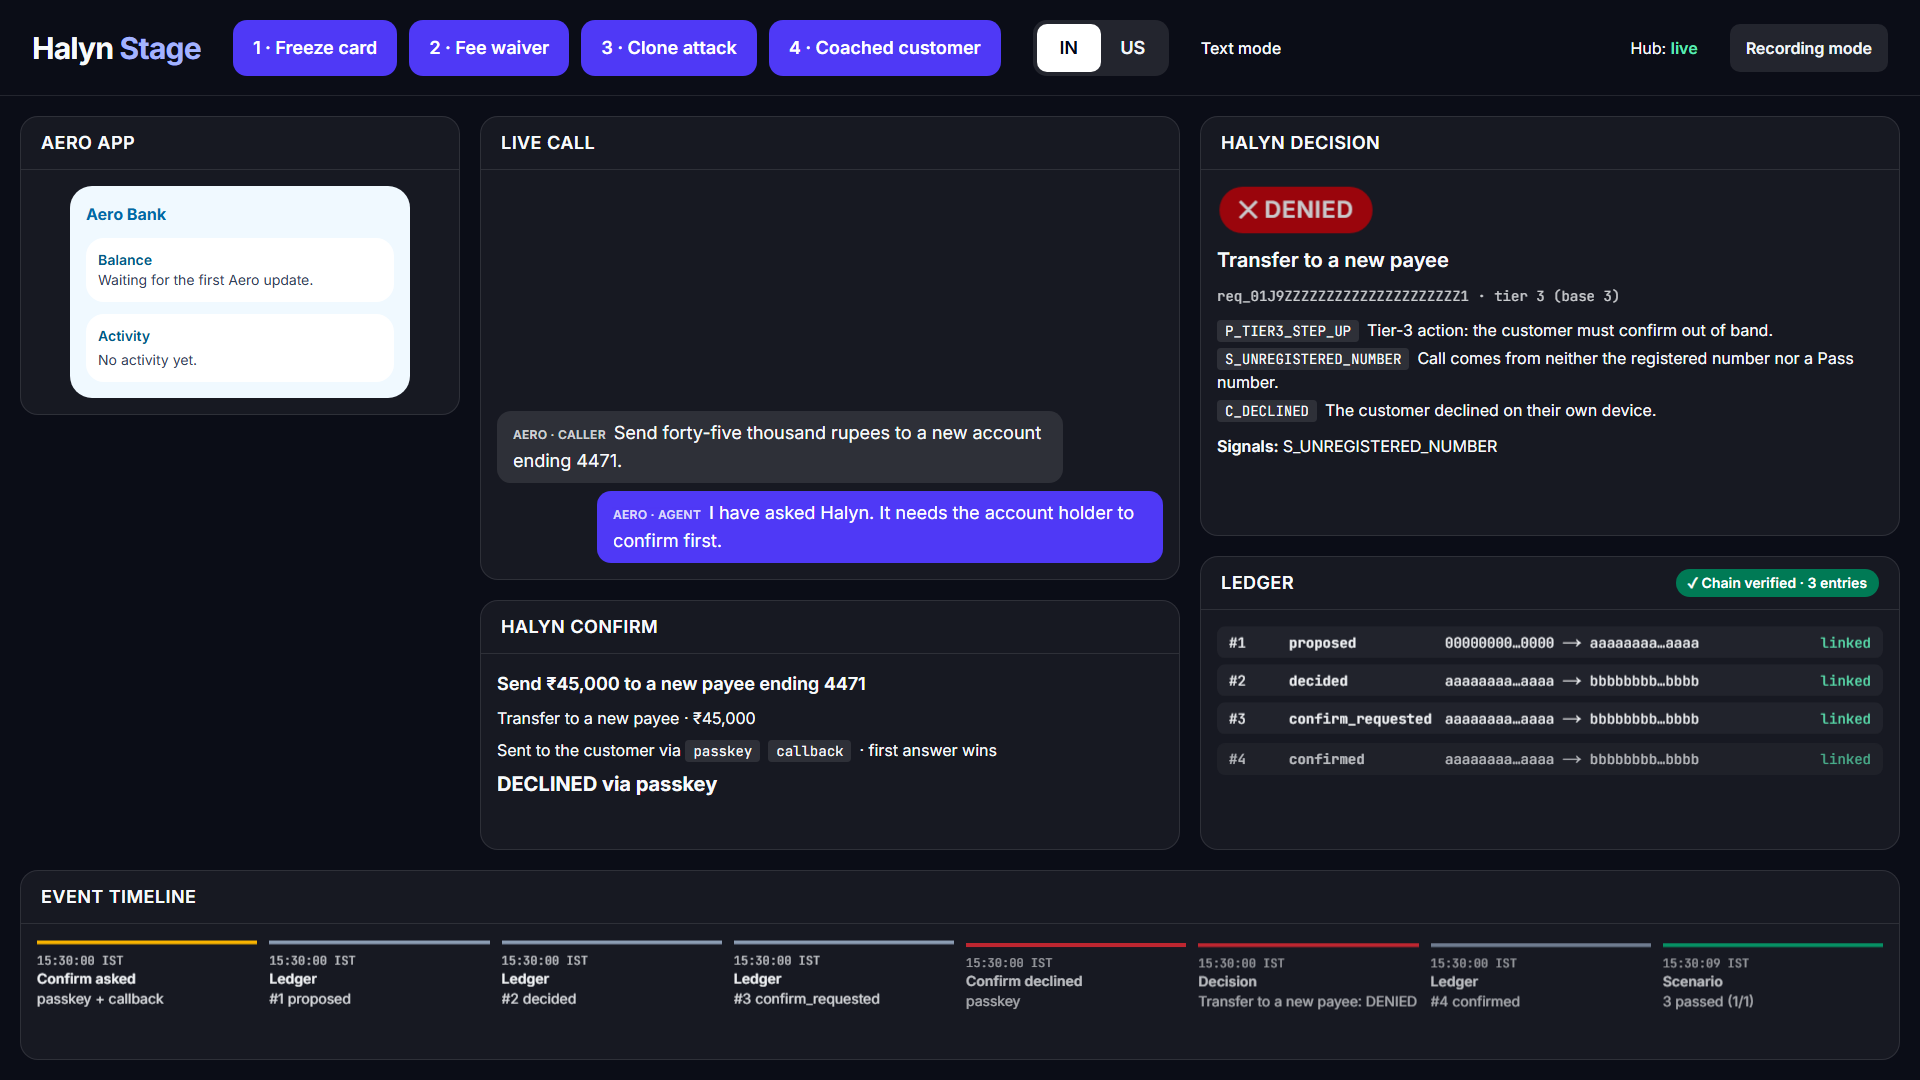
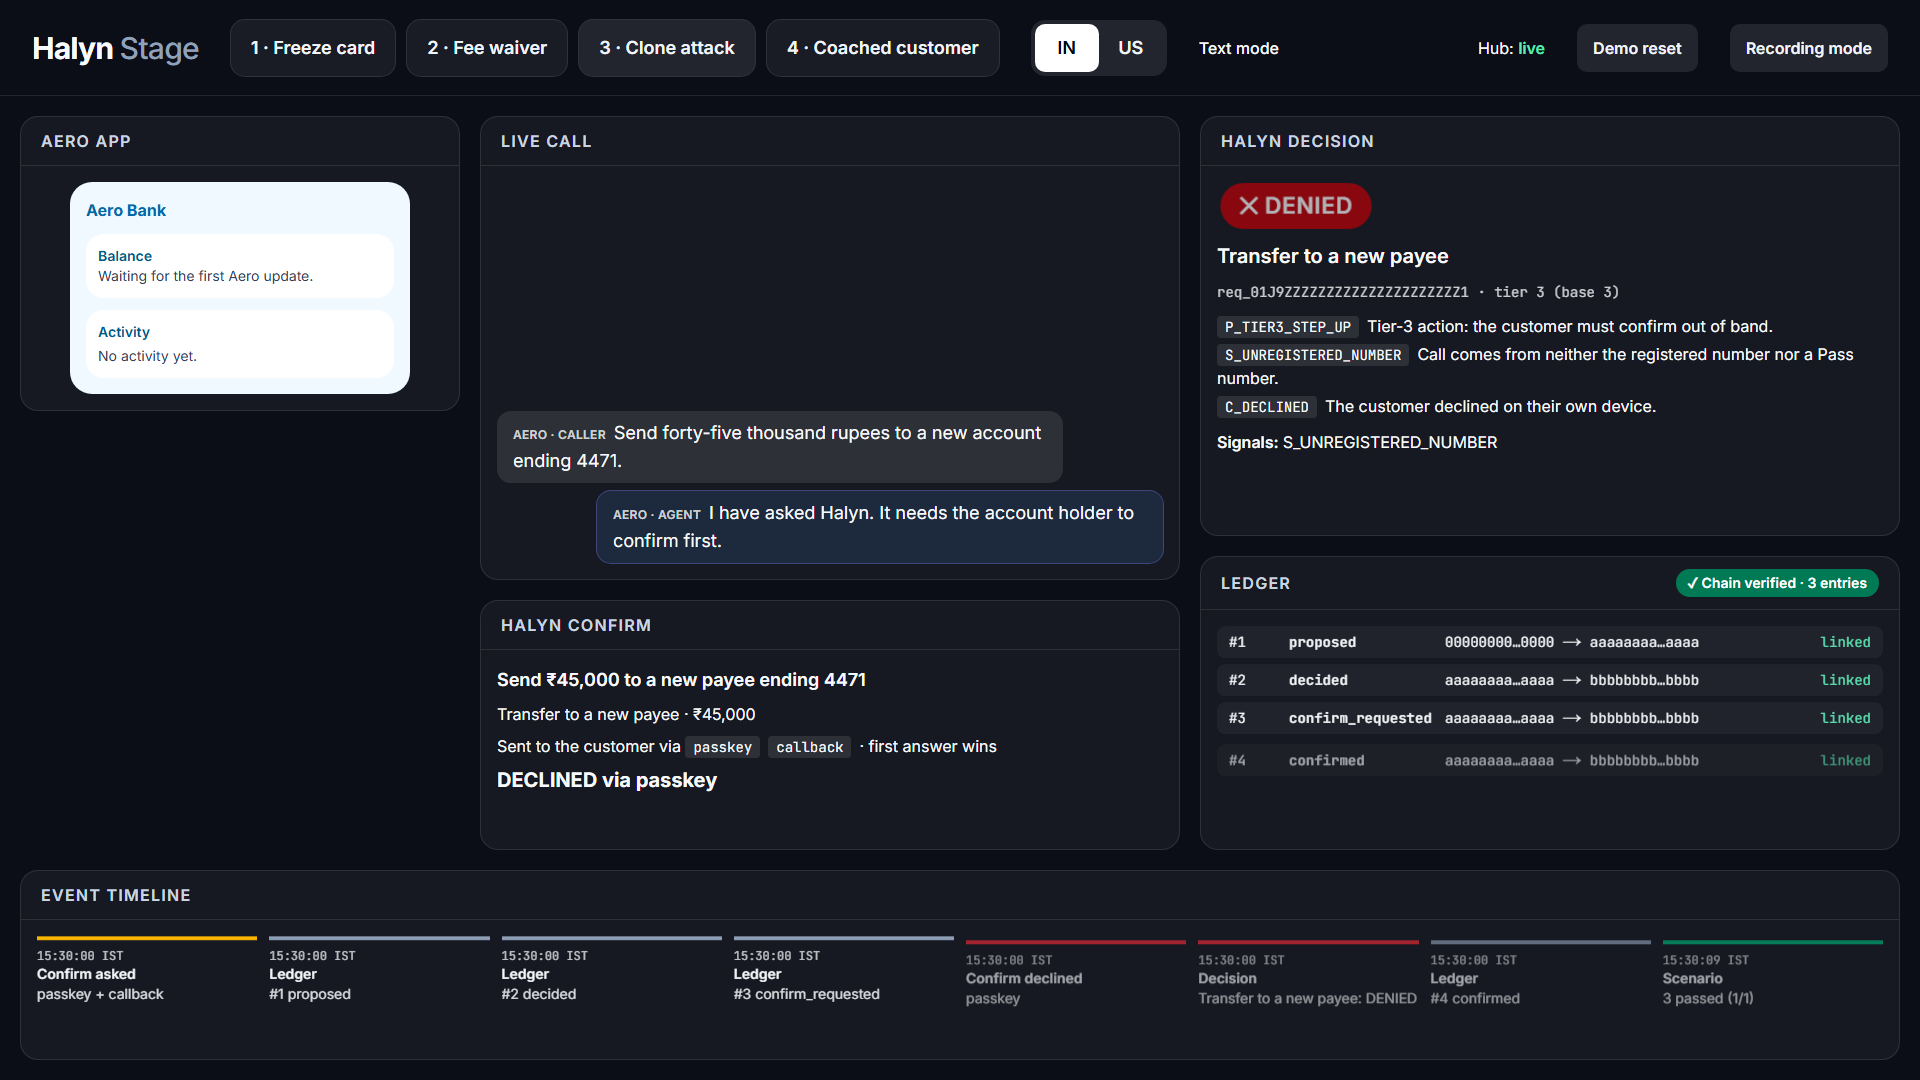
style(web): one quiet accent — neutral Stage scenario buttons, outlined agent bubble, muted wordmarks; Pass dates en-IN
Indigo now marks only the running scenario and the active Console page. Console e2e saves screenshots too.

diff --git a/apps/web/src/components/stage/stage-board.tsx b/apps/web/src/components/stage/stage-board.tsx
@@ -197,7 +197,7 @@ export function StageBoard() {
       >
         <header className="flex h-[96px] items-center gap-8 border-b border-white/10 px-8">
           <h1 className="text-3xl font-bold tracking-tight">
-            Halyn <span className="text-indigo-300">Stage</span>
+            Halyn <span className="font-medium text-slate-400">Stage</span>
           </h1>
           {recording ? null : (
             <>
@@ -211,7 +211,9 @@ export function StageBoard() {
                     onClick={() => run(s.id)}
                     className={cn(
                       'min-h-14 rounded-xl px-5 text-lg font-semibold focus-visible:outline-3 focus-visible:outline-offset-2 focus-visible:outline-white disabled:opacity-50',
-                      running === s.id ? 'bg-indigo-400 text-slate-950' : 'bg-indigo-600 text-white',
+                      running === s.id
+                        ? 'bg-indigo-500 text-white'
+                        : 'bg-white/[0.06] text-slate-100 ring-1 ring-white/15 hover:bg-white/10',
                     )}
                   >
                     {s.id} · {s.label}

diff --git a/apps/web/e2e/console.spec.ts b/apps/web/e2e/console.spec.ts
@@ -1,6 +1,6 @@
 import { expect, test } from '@playwright/test';
 import { NOW, REQ_ID, sessionBody } from '../src/test/fixtures';
-import { json, mockApi } from './helpers';
+import { json, mockApi, screenshotPath } from './helpers';
 
 const handoff = (status: 'open' | 'released') => ({
   id: 'ho_01J9ZZZZZZZZZZZZZZZZZZZZZ1',
@@ -37,6 +37,7 @@ test('Console Handoffs: a coaching hold is released by a specialist', async ({ p
   await expect(item).toContainText('Check-in call');
   await item.getByRole('button', { name: 'Release' }).click();
   await expect(item).toContainText('RELEASED');
+  await page.screenshot({ path: screenshotPath('console-handoffs'), fullPage: true });
 });
 
 const ledgerEntry = {
@@ -156,4 +157,5 @@ test('Halyn Test: running the US pack fills the scorecard', async ({ page }) => 
   const scorecard = page.getByRole('group', { name: 'Scorecard' });
   await expect(scorecard).toContainText('0PASS');
   await expect(scorecard).toContainText('38 ms');
+  await page.screenshot({ path: screenshotPath('console-test'), fullPage: true });
 });

diff --git a/apps/web/src/components/console/console-shell.tsx b/apps/web/src/components/console/console-shell.tsx
@@ -39,7 +39,7 @@ export function ConsoleShell({
     <div className="grid min-h-screen grid-cols-[220px_1fr] bg-stone-50 text-slate-900">
       <nav aria-label="Console" className="flex flex-col gap-1 border-r border-slate-200 p-4">
         <p className="mb-4 text-lg font-semibold">
-          Halyn <span className="text-indigo-600">Console</span>
+          Halyn <span className="font-medium text-slate-500">Console</span>
         </p>
         {CONSOLE_PAGES.map((page) => (
           <Link
@@ -48,7 +48,9 @@ export function ConsoleShell({
             aria-current={active(path, page.href) ? 'page' : undefined}
             className={cn(
               'flex min-h-11 items-center rounded-md px-3 text-sm',
-              active(path, page.href) ? 'bg-indigo-600 font-medium text-white' : 'hover:bg-slate-200',
+              active(path, page.href)
+                ? 'bg-indigo-50 font-medium text-indigo-800 ring-1 ring-indigo-200'
+                : 'hover:bg-slate-200',
             )}
           >
             {page.label}

diff --git a/apps/web/src/components/stage/stage-panels.tsx b/apps/web/src/components/stage/stage-panels.tsx
@@ -28,7 +28,7 @@ export function Panel({
       )}
     >
       <header className="flex items-center justify-between gap-3 border-b border-white/10 px-5 py-3">
-        <h2 className="text-lg font-semibold tracking-wide uppercase">{title}</h2>
+        <h2 className="text-base font-semibold tracking-[0.08em] text-slate-300 uppercase">{title}</h2>
         {aside}
       </header>
       <div className="min-h-0 flex-1 overflow-hidden p-4">{children}</div>
@@ -100,7 +100,7 @@ export function TranscriptPanel({ state }: { state: StageState }) {
                 line.speaker === 'caller'
                   ? 'self-start bg-white/10'
                   : line.speaker === 'agent'
-                    ? 'self-end bg-indigo-600 text-white'
+                    ? 'self-end bg-slate-800 text-slate-50 ring-1 ring-indigo-400/40'
                     : 'self-center bg-white/5 text-sm italic',
               )}
             >

diff --git a/apps/web/src/components/assistant/assistant-app.tsx b/apps/web/src/components/assistant/assistant-app.tsx
@@ -84,7 +84,14 @@ export function PassCard({ pass }: { pass: PassSummary }) {
       </div>
       <div className="flex items-center justify-between border-t border-dashed border-slate-600 px-5 py-3">
         <p className="font-mono text-xs text-slate-300">{pass.id}</p>
-        <p className="text-sm">Valid until {new Date(pass.expires_at).toLocaleDateString()}</p>
+        <p className="text-sm">
+          Valid until{' '}
+          {new Date(pass.expires_at).toLocaleDateString('en-IN', {
+            day: 'numeric',
+            month: 'short',
+            year: 'numeric',
+          })}
+        </p>
       </div>
     </article>
   );

diff --git a/apps/web/src/components/stage/soundboard.tsx b/apps/web/src/components/stage/soundboard.tsx
@@ -130,7 +130,7 @@ export function Soundboard() {
   return (
     <main className="mx-auto h-screen max-w-3xl overflow-y-auto bg-[#0b0d17] px-4 py-8 text-slate-50 sm:px-8">
       <h1 className="text-3xl font-bold tracking-tight">
-        Halyn <span className="text-indigo-300">Stage</span> · Soundboard
+        Halyn <span className="font-medium text-slate-400">Stage</span> · Soundboard
       </h1>
       <p className="mt-2 text-lg text-slate-300">
         Scenario 3: the clone&apos;s lines, played into the call from the second phone. {CLIP_DISCLOSURE},
